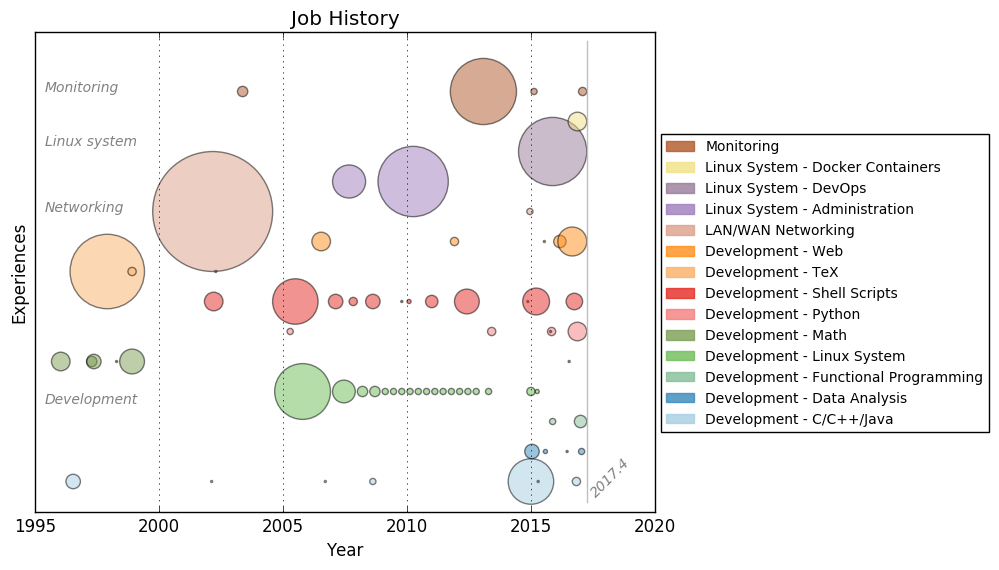
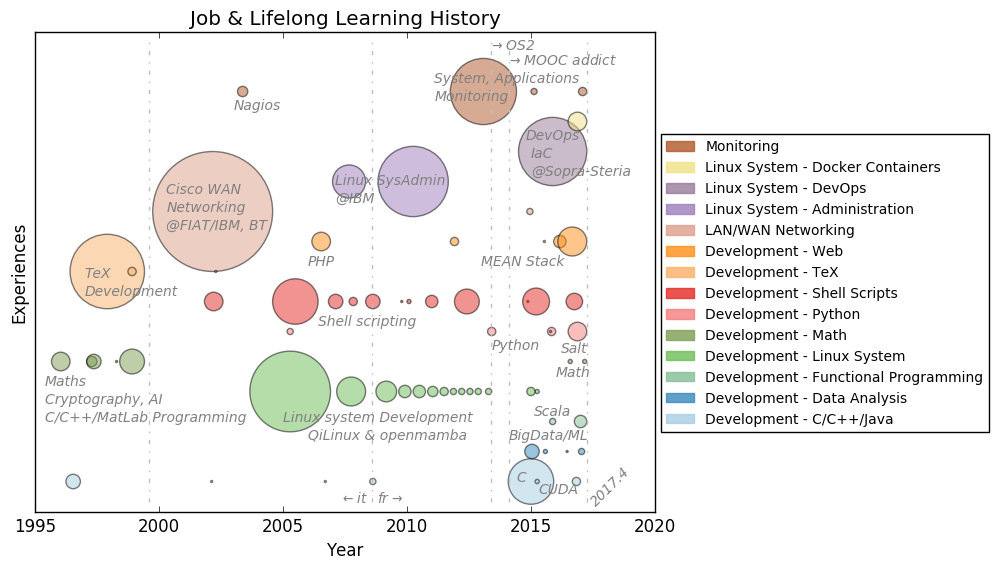
plot-experiences.py: annotate the plot image

diff --git a/scripts/plot-experiences.py b/scripts/plot-experiences.py
@@ -91,7 +91,7 @@ def make_jobs_plot(experiences, area_adj=0.84):
     # Add axis labels
     ax.set_xlabel('Year')
     ax.set_ylabel('Experiences')
-    ax.set_title('Job History')
+    ax.set_title('Job & Lifelong Learning History')
     ax.set_xlim([1995, now.year + 3])
     ax.set_ylim([-1, len(expr_types) + 1])
 
@@ -99,20 +99,71 @@ def make_jobs_plot(experiences, area_adj=0.84):
     yticks = []
     ax.set_yticks(yticks)
     ax.set_yticklabels([''])
-    ax.grid('on')
+    ax.grid('off')
+
+    vlinestyle = 'dashdot'
+
+    # Start of Job
+    ax.axvline(x=1999.6, ymin=0.02, ymax=0.98,
+               linewidth=1, linestyle=vlinestyle, color='0.75')
+
+    # Mark the move to France
+    ax.axvline(x=2008.6, ymin=0.02, ymax=0.98,
+               linewidth=1, linestyle=vlinestyle, color='0.75')
+    textlabel(ax, 2007.4, -0.7, '$\u2190$ it')
+    textlabel(ax, 2008.8, -0.7, 'fr $\u2192$')
+
+    # Mark the start of the OS2 Micro-Entrepreneur activity
+    ax.axvline(x=2013.4, ymin=0.02, ymax=0.98,
+               linewidth=1, linestyle=vlinestyle, color='0.75')
+    textlabel(ax, 2013.4, 14.4, '$\u2192$ OS2')
+
+    # Mark the start of the amazing MOOCs experience
+    ax.axvline(x=2014.10, ymin=0.02, ymax=0.98,
+               linewidth=1, linestyle=vlinestyle, color='0.75')
+    textlabel(ax, 2014.10, 13.9, '$\u2192$ MOOC addict')
 
     # Add a vertical line to show the current date
     xnow = now.year + normalize(now.month)
-    ax.axvline(x=xnow, ymin=0.02, ymax=0.98, linewidth=1, color='0.75')
+    ax.axvline(x=xnow, ymin=0.02, ymax=0.98,
+               linewidth=1, linestyle=vlinestyle, color='0.75')
+    textlabel(ax, xnow + 0.05, 0.2,
+              "{0}.{1}".format(now.year, now.month), rotation=45)
 
     # Add some text labels to hopefully improve the plot readability
     # fixme: the y coordinates must to be manually set
-    textlabel(ax, 1995.4,  2.6, 'Development')
-    textlabel(ax, 1995.4,  9.0, 'Networking')
-    textlabel(ax, 1995.4, 11.2, 'Linux system')
-    textlabel(ax, 1995.4, 13.0, 'Monitoring')
-    textlabel(ax, xnow + 0.05, 0.5,
-              "{0}.{1}".format(now.year, now.month), rotation=45)
+    textlabel(ax, 1995.4,   3.2, 'Maths')
+    textlabel(ax, 1995.4,   2.6, 'Cryptography, AI')
+    textlabel(ax, 1995.4,   2.0, 'C/C++/MatLab Programming')
+    textlabel(ax, 1997.0,   6.8, 'TeX')
+    textlabel(ax, 1997.0,   6.2, 'Development')
+    #textlabel(ax, 1998.6,  -0.6, 'C/C++/Java Programming')
+    textlabel(ax, 2000.3,   9.6, 'Cisco WAN')
+    textlabel(ax, 2000.3,   9.0, 'Networking')
+    textlabel(ax, 2000.3,   8.4, '@FIAT/IBM, BT')
+    textlabel(ax, 2003.0,  12.4, 'Nagios')
+    textlabel(ax, 2005.0,   2.0, 'Linux system Development')
+    textlabel(ax, 2006.0,   1.4, 'QiLinux & openmamba')
+    textlabel(ax, 2006.4,   5.2, 'Shell scripting')
+    textlabel(ax, 2007.1,   9.9, 'Linux SysAdmin')
+    textlabel(ax, 2007.1,   9.3, '@IBM')
+    textlabel(ax, 2011.10, 13.3, 'System, Applications')
+    textlabel(ax, 2011.10, 12.7, 'Monitoring')
+    textlabel(ax, 2014.8,  11.4, 'DevOps')
+    textlabel(ax, 2015.0,  10.8, 'IaC')
+    textlabel(ax, 2015.0,  10.2, '@Sopra-Steria')
+    #textlabel(ax, 2013.0,  8.4,  'Angular')
+    #textlabel(ax, 2013.0,  7.8,  'Node.js')
+    textlabel(ax, 2013.0,  7.2,  'MEAN Stack')
+    textlabel(ax, 2006.0,  7.2,  'PHP')
+    #textlabel(ax, 2013.0,  6.6,  'Web Full Stack')
+    textlabel(ax, 2013.4,  4.4,  'Python')
+    textlabel(ax, 2014.4,  0.0,  'C')
+    textlabel(ax, 2014.12, 1.4,  'BigData/ML')
+    textlabel(ax, 2015.11, 2.2,  'Scala')
+    textlabel(ax, 2015.3, -0.4,  'CUDA')
+    textlabel(ax, 2016.0,  3.5,  'Math')
+    textlabel(ax, 2016.2,  4.3,  'Salt')
 
     # Add a legend
     handles = \
